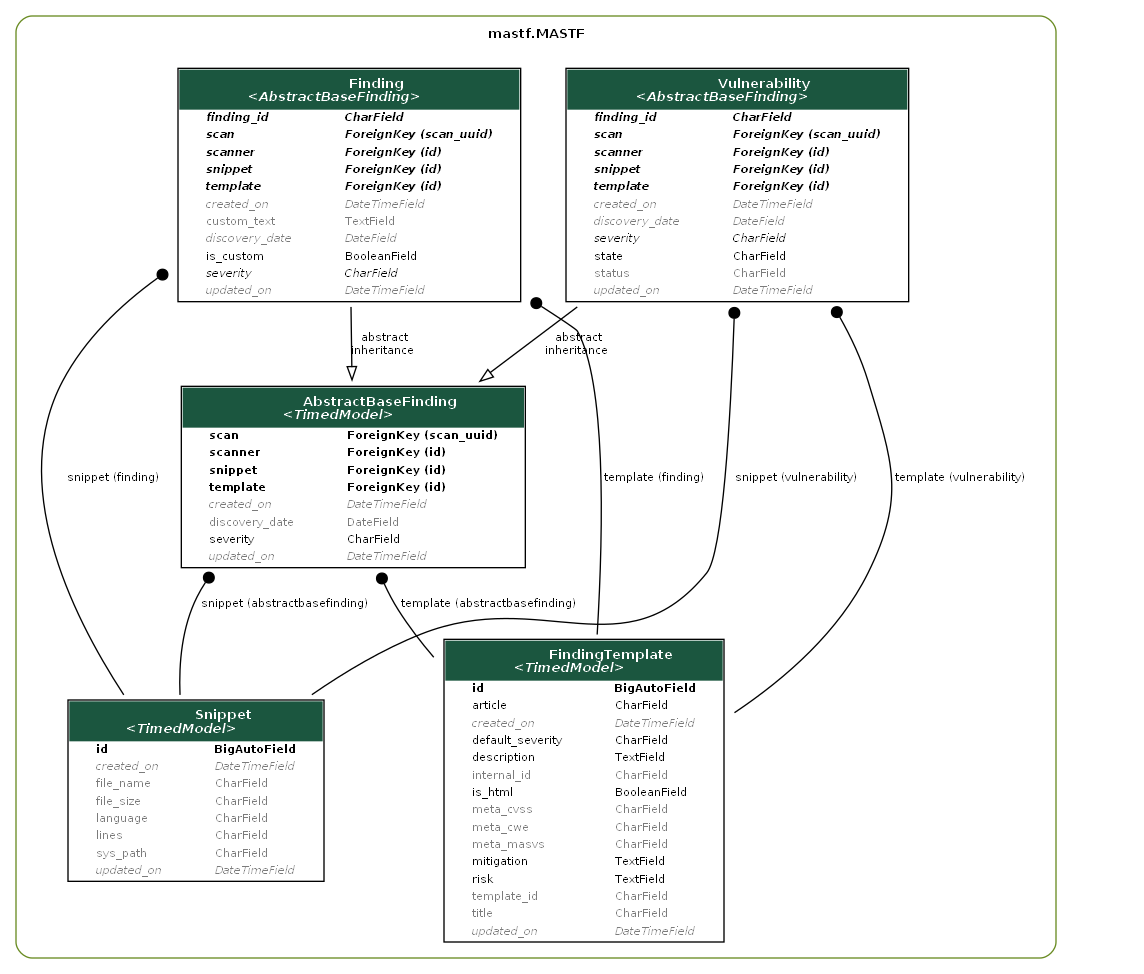
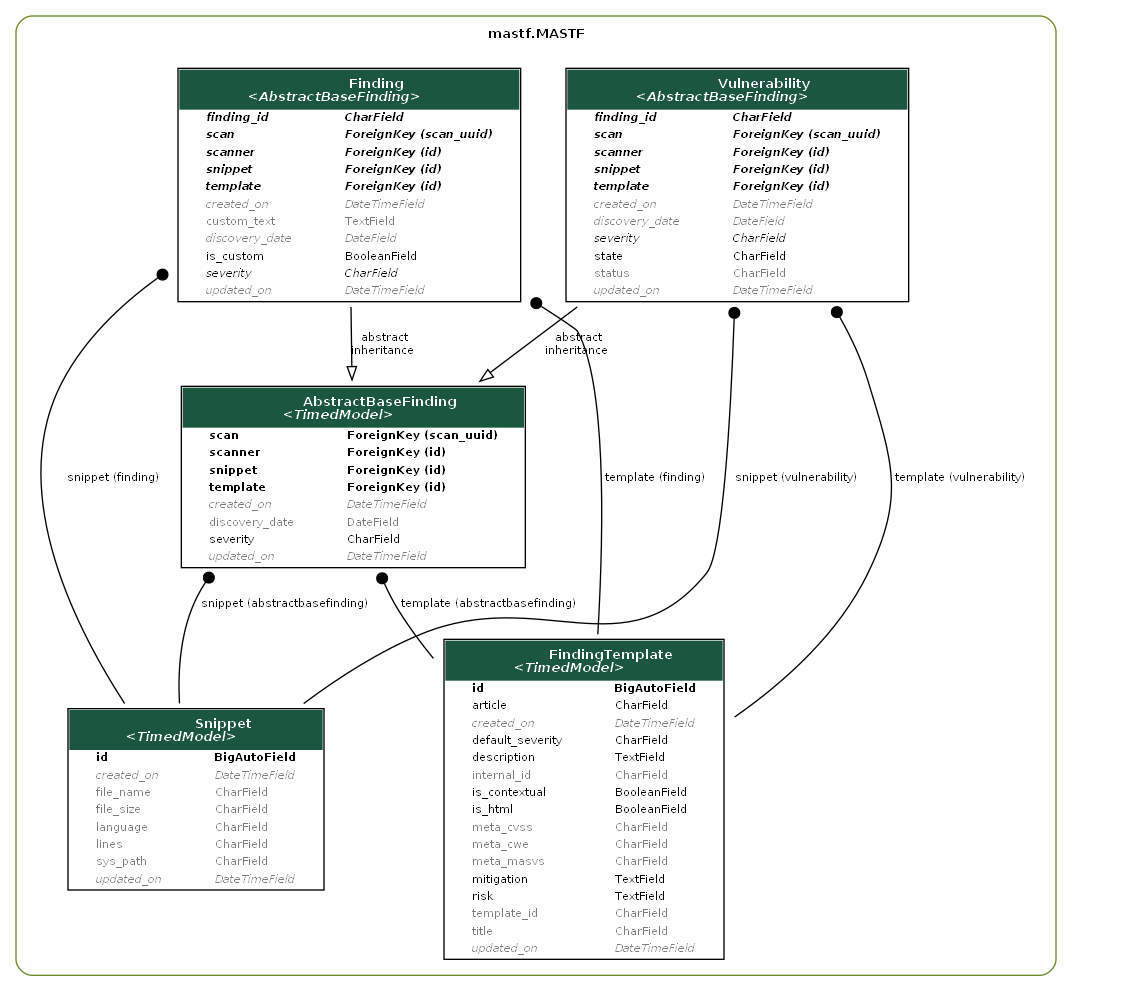
Some semgrep task issues resolved
- Manifest analysis fails
- Semgrep finding template lookup fails as well

diff --git a/mastf/static/js/mastf-lib.js b/mastf/static/js/mastf-lib.js
@@ -324,7 +324,7 @@ Finding = {
         var masvs = Utils.escapeHTML(data.meta_masvs || "Not provided");
         if (masvs.startsWith("http")) {
             let path_elements = masvs.split("/");
-            let title = path_elements[path_elements-1].split("#")[0].replace("-", " ")
+            let title = path_elements[path_elements.length-1].split("#")[0].replace("-", " ")
             document.getElementById("finding-details-masvs").innerHTML = `<a href="${masvs}" class="link-secondary" target="_blank">${title}</a>`;
         }
         document.getElementById('finding-details-masvs').textContent = data.meta_masvs || "Not provided";

diff --git a/mastf/templates/dashboard/scans.html b/mastf/templates/dashboard/scans.html
@@ -191,7 +191,7 @@ MASTF | Scans
                                         {% if row.scan.initiator == request.user %}
                                         <span class="badge bg-azure-lt">You</span>
                                         {% else %}
-                                        <span class="badge bg-secondary-lt1">{{row.scan.initiator.username}}</span>
+                                        <span class="badge bg-secondary-lt">{{row.scan.initiator.username}}</span>
                                         {% endif %}
                                     </td>
                                     <td>

diff --git a/mastf/MASTF/tasks/tsk_semgrep.py b/mastf/MASTF/tasks/tsk_semgrep.py
@@ -30,20 +30,22 @@ def perform_semgrep_scan(self, scan_task_id: str, rules_dir: str, file_dir: str)
 
     cmd = [ # cd rules_dir && semgrep -c rules_dir --output out_file --json file_dir
         "cd",
-        rules_dir, # Rather change the current working directory as .semgrepignore may be defined there
+        # Rather change the current working directory as .semgrepignore may be defined there
+        # REVISIT: maybe use cwd=... in run()
+        rules_dir,
         "&&",
         "semgrep",
         "scan",
         "-c",
         rules_dir,
+        "--json",
         "--output",
         str(out_file),
-        "--json",
         file_dir
     ]
     try:
         observer.update("Running semgrep...", do_log=True)
-        result = subprocess.run(cmd, capture_output=True)
+        result = subprocess.run(" ".join(cmd), capture_output=True, shell=True)
         result.check_returncode()
 
         observer.update("Finished semgrep, inspecing results...", do_log=True)
@@ -67,19 +69,21 @@ def perform_semgrep_scan(self, scan_task_id: str, rules_dir: str, file_dir: str)
 
                 snippet = Snippet.objects.create(
                     sys_path=str(path),
-                    language=path.suffix,
+                    language=path.suffix.removeprefix("."),
                     file_name=path.name,
                     file_size=path.stat().st_size,
-                    lines=",".join([x for x in range(start, end + 1)])
+                    lines=",".join([str(x) for x in range(start, end + 1)])
                 )
                 if not template.is_contextual:
                     Finding.create(template, snippet, scan_task.scanner)
                 else:
                     Finding.create(template, snippet, scan_task.scanner, text=result["message"])
 
+            _, meta = observer.success("Finished semgrep scan!")
+            return meta
     except subprocess.CalledProcessError as err:
         _, meta = observer.exception(err, "Failed to execute semgrep!")
         return meta
     except Exception as oserr:
         _, meta = observer.exception(oserr, "Failed to read from semgrep results!")
-        return meta
+        return meta.get("description")

diff --git a/mastf/MASTF/scanners/android_sast/manifest_scan.py b/mastf/MASTF/scanners/android_sast/manifest_scan.py
@@ -58,6 +58,7 @@ def get_manifest_info(inspector: ScannerPluginTask) -> None:
                 inspector,
                 manifest,
             )
+    inspector.observer.update("Finished manifest analysis!")
 
 
 def run_manifest_scan(inspector: ScannerPluginTask, manifest_file: pathlib.Path):
@@ -190,11 +191,13 @@ class AndroidManifestHandler:
 
     def _create_finding(self, title: str) -> None:
         _ = FindingTemplate.make_internal_id
-        Finding.create(
-            FindingTemplate.objects.get(_(title)),
-            self.snippet,
-            self.inspector.scan_task.scanner,
-        )
+        queryset = FindingTemplate.objects.filter(_(title))
+        if len(queryset) == 1:
+            Finding.create(
+                queryset.first(),
+                self.snippet,
+                self.inspector.scan_task.scanner,
+            )
 
     def on_application(self, element: Element, name: str) -> None:
         """
@@ -277,7 +280,6 @@ class AndroidManifestHandler:
         if identifier:
             component.permission = self.on_permission(element, identifier)
 
-        # TODO: if exported add Finding
         for intent_filter in element.childNodes:
             if intent_filter.nodeName == "intent-filter":
                 action = intent_filter.getAttribute("android:name")

diff --git a/mastf/MASTF/migrations/0002_component_permission_findingtemplate_is_contextual_and_more.py b/mastf/MASTF/migrations/0002_component_permission_findingtemplate_is_contextual_and_more.py
@@ -1,0 +1,39 @@
+# Generated by Django 4.2.1 on 2023-07-02 15:02
+
+from django.db import migrations, models
+import django.db.models.deletion
+
+
+class Migration(migrations.Migration):
+    dependencies = [
+        ("MASTF", "0001_initial"),
+    ]
+
+    operations = [
+        migrations.AddField(
+            model_name="component",
+            name="permission",
+            field=models.ForeignKey(
+                null=True,
+                on_delete=django.db.models.deletion.SET_NULL,
+                to="MASTF.apppermission",
+            ),
+        ),
+        migrations.AddField(
+            model_name="findingtemplate",
+            name="is_contextual",
+            field=models.BooleanField(default=False),
+        ),
+        migrations.AddField(
+            model_name="package",
+            name="is_tracker",
+            field=models.BooleanField(default=False),
+        ),
+        migrations.AddConstraint(
+            model_name="package",
+            constraint=models.UniqueConstraint(
+                fields=("group_id", "artifact_id"),
+                name="unique_package_groupid_artifactid",
+            ),
+        ),
+    ]

diff --git a/mastf/MASTF/scanners/android_sast/app_package.py b/mastf/MASTF/scanners/android_sast/app_package.py
@@ -19,6 +19,7 @@ import logging
 import lief
 import uuid
 import pathlib
+import io
 
 from androguard.core.bytecodes import apk
 
@@ -35,6 +36,14 @@ from mastf.MASTF.scanners.plugin import ScannerPluginTask
 
 logger = logging.getLogger(__name__)
 
+# https://github.com/lief-project/LIEF/issues/832
+class BytesIO(io.BytesIO):
+    @property
+    def raw(self):
+        return self
+
+    def readall(self):
+        return self.read()
 
 def get_app_packages(task: ScannerPluginTask) -> None:
     # TODO: Use python package mastf-libscout to scan the given
@@ -49,7 +58,10 @@ def get_app_packages(task: ScannerPluginTask) -> None:
     # dictionary stores the package, possible version number, type and
     # license (if found)
     for dex_content in apk_file.get_all_dex():
-        dex_file = lief.DEX.parse(dex_content)
+        dex_file = lief.DEX.parse(BytesIO(dex_content))
+        if not dex_file:
+            continue
+
         for class_def in dex_file.classes:
             # filter out any non-existend files
             if not class_def.source_filename:

diff --git a/mastf/MASTF/migrations/0003_alter_scantask_celery_id.py b/mastf/MASTF/migrations/0003_alter_scantask_celery_id.py
@@ -1,0 +1,17 @@
+# Generated by Django 4.2.1 on 2023-07-02 15:31
+
+from django.db import migrations, models
+
+
+class Migration(migrations.Migration):
+    dependencies = [
+        ("MASTF", "0002_component_permission_findingtemplate_is_contextual_and_more"),
+    ]
+
+    operations = [
+        migrations.AlterField(
+            model_name="scantask",
+            name="celery_id",
+            field=models.CharField(blank=True, max_length=256, null=True),
+        ),
+    ]

diff --git a/mastf/MASTF/models/mod_scan.py b/mastf/MASTF/models/mod_scan.py
@@ -189,7 +189,7 @@ class ScanTask(TimedModel):
     name = models.CharField(max_length=256, blank=True)
     """The task's name (primarily used in HTML representation)"""
 
-    celery_id = models.CharField(max_length=256, blank=True)
+    celery_id = models.CharField(max_length=256, blank=True, null=True)
     """The assigned celery id (may be null on creation)."""
 
     active = models.BooleanField(default=True)

diff --git a/mastf/MASTF/scanners/android_sast/base.py b/mastf/MASTF/scanners/android_sast/base.py
@@ -117,7 +117,7 @@ class AndroidTask(ScannerPluginTask):
             scanner=self.scan_task.scanner,
             name=self.scan_task.name,
         )
-        perform_semgrep_scan(
+        perform_semgrep_scan.delay(
             str(task.task_uuid),
             str(settings.SEMGREP_ANDROID_RULES_DIR),
             str(self.file_dir),

diff --git a/mastf/MASTF/scanners/plugin.py b/mastf/MASTF/scanners/plugin.py
@@ -219,6 +219,8 @@ class ScannerPluginTask(metaclass=ABCMeta):
                         str(err),
                     )
                     self.observer.logger.exception(str(err))
+        # Finishes the job
+        ScanTask.finish_scan(self.scan, self.scan_task)
 
     @property
     def scan_task(self) -> ScanTask:
